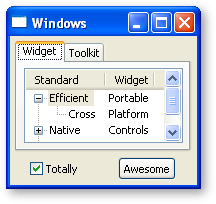
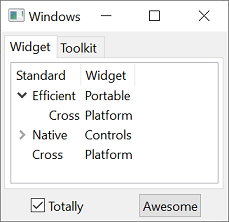
Bug 528173 - SWT Website Documentation needs a refresh - Replaced old Windows XP and Vista images with Windows 10

diff --git a/index.php b/index.php
@@ -117,8 +117,7 @@ on which it is implemented.</p>
 </div>
 
 <div id="rightcolumn">
-	<p><img src="images/vis-example.png" alt="Vista" width="225" height="225"></p>
-	<p><img src="images/win-example.png" alt="Windows" width="216" height="204"></p>
+	<p><img src="images/win-example.png" alt="Windows" width="229" height="222"></p>
 	<p><img src="images/lin-example.png" alt="Linux" width="212" height="224"></p>
 	<p><img src="images/mac-example.png" alt="Mac OS X" width="232" height="237"></p>
 </div>
